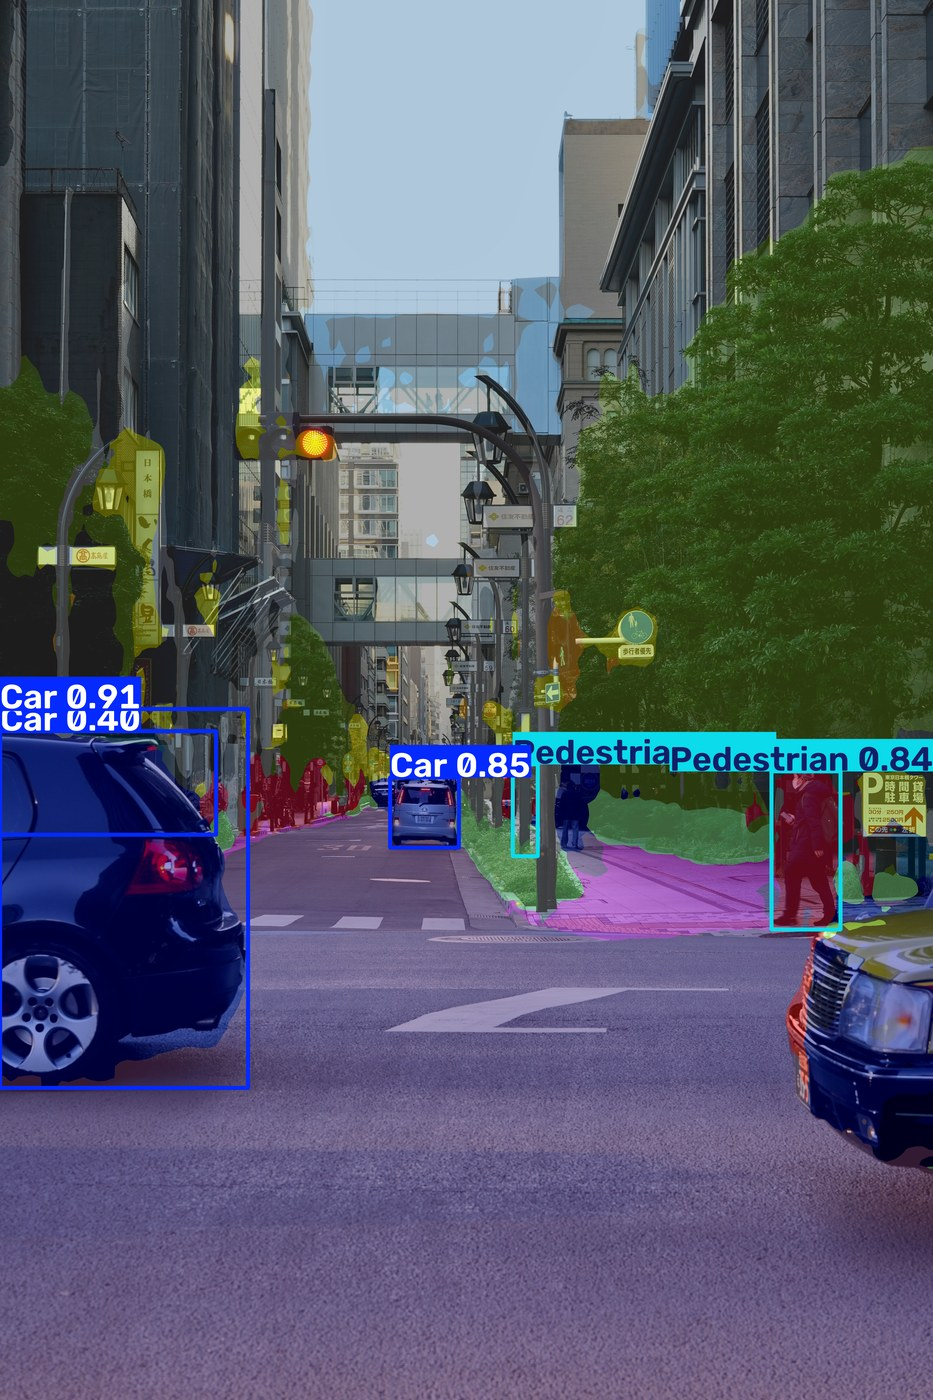
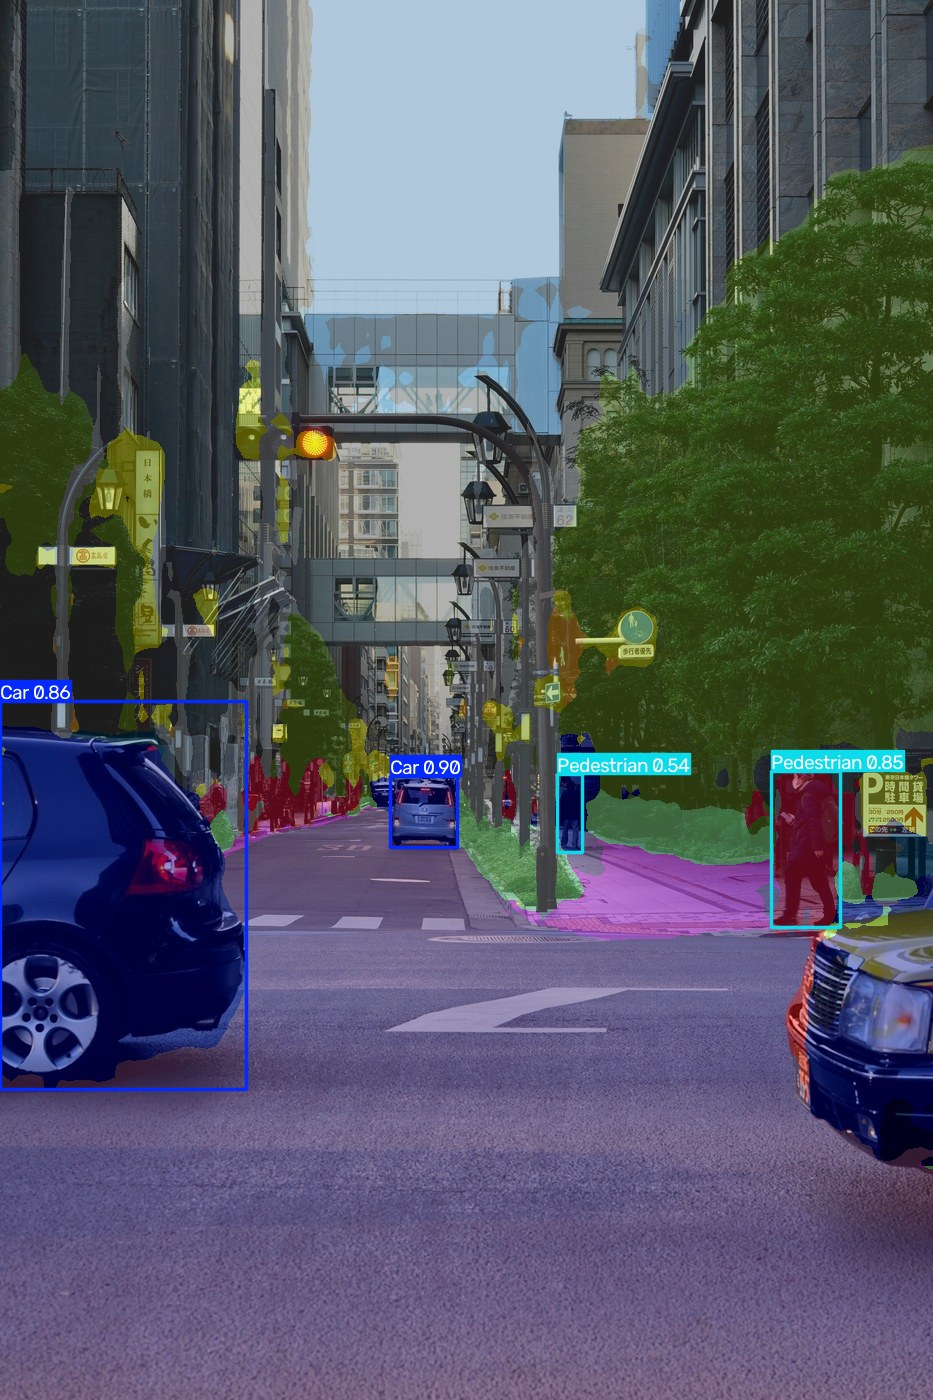
Fix overlapping detectionlabels and tune confidence/IoU thresholds

diff --git a/inference/inference_pipeline.py b/inference/inference_pipeline.py
@@ -1,5 +1,6 @@
 import os
 from ultralytics import YOLO
+from ultralytics.utils.plotting import Annotator, colors
 from transformers import SegformerForSemanticSegmentation
 import torch
 from torchvision import transforms as T
@@ -50,35 +51,70 @@ def load_models(yolo_path, segformer_path,device):
     return yolo_model, segformer_model
 
 
-def run_inference_pipeline(yolo_model, segformer_model,image,device,save_file_name):
-    yolo_op=yolo_model.predict(image,imgsz=960,device=device)
-    
-    image_array=cv2.imread(image)
+def draw_detections(image_bgr,result):
+    #draws boxes with confidence-ordered labels, stacking a label downward
+    #instead of overlapping when it collides with an already-placed one
+    annotator=Annotator(image_bgr,line_width=2)
+    placed_label_rects=[]
+
+    sorted_boxes=sorted(result.boxes,key=lambda b:-float(b.conf))
+    for box in sorted_boxes:
+        x1,y1,x2,y2=[int(v) for v in box.xyxy[0].tolist()]
+        cls_id=int(box.cls)
+        color=colors(cls_id,True)
+        cv2.rectangle(annotator.im,(x1,y1),(x2,y2),color,thickness=annotator.lw,lineType=cv2.LINE_AA)
+
+        label=f"{result.names[cls_id]} {float(box.conf):.2f}"
+        (tw,th),_=cv2.getTextSize(label,0,fontScale=annotator.sf,thickness=annotator.tf)
+        th+=3
+
+        label_top=y1-th if y1>=th else y1
+        while any(not (label_top+th<r[1] or label_top>r[3] or x1+tw<r[0] or x1>r[2]) for r in placed_label_rects):
+            label_top+=th
+        placed_label_rects.append((x1,label_top,x1+tw,label_top+th))
+
+        cv2.rectangle(annotator.im,(x1,label_top),(x1+tw,label_top+th),color,-1,cv2.LINE_AA)
+        cv2.putText(annotator.im,label,(x1,label_top+th-2),0,annotator.sf,(255,255,255),
+                    thickness=annotator.tf,lineType=cv2.LINE_AA)
+
+    return annotator.im
+
+
+def run_inference(yolo_model,segformer_model,image_bgr,device,conf=0.53,iou=0.45):
+    yolo_op=yolo_model.predict(image_bgr,imgsz=960,device=device,conf=conf,iou=iou)
+
     #convert to RGB
-    image_array=cv2.cvtColor(image_array,cv2.COLOR_BGR2RGB)
+    image_array=cv2.cvtColor(image_bgr,cv2.COLOR_BGR2RGB)
     #convert to image tensor
     image_tensor=torch.tensor(image_array).permute(2,0,1).float()/255
     image_tensor=transformation(image_tensor)
     image_tensor=image_tensor.unsqueeze(0).to(device)
-    
+
     op_logits=segformer_model(pixel_values=image_tensor)
     #get upsampled logits
     upsampled_logits=torch.nn.functional.interpolate(op_logits.logits,size=image_array.shape[:2],mode='bilinear',align_corners=False)
-    
+
     #get predicted segmentation mask
     op_segmentation_mask=torch.argmax(upsampled_logits,dim=1).cpu().numpy().squeeze(0)
-    
+
     # numpy vectorisation
     cityscapes_color_mask=CITYSCAPES_COLOR_MAP[op_segmentation_mask]
-    
-    
+
+
     #overlay image
     overlayed_image=cv2.addWeighted(image_array,0.6,cityscapes_color_mask,0.4,0)
-    
+
     BGR_image=cv2.cvtColor(overlayed_image, cv2.COLOR_RGB2BGR)
     #draw the yolo boxes
-    op_image=yolo_op[0].plot(img=BGR_image)
-    
+    op_image=draw_detections(BGR_image,yolo_op[0])
+
+    return op_image
+
+
+def run_inference_pipeline(yolo_model,segformer_model,image,device,save_file_name):
+    image_bgr=cv2.imread(image)
+    op_image=run_inference(yolo_model,segformer_model,image_bgr,device)
+
     #save this
     saved=os.path.join(EVAL_PATH,save_file_name)
     cv2.imwrite(saved,op_image)
